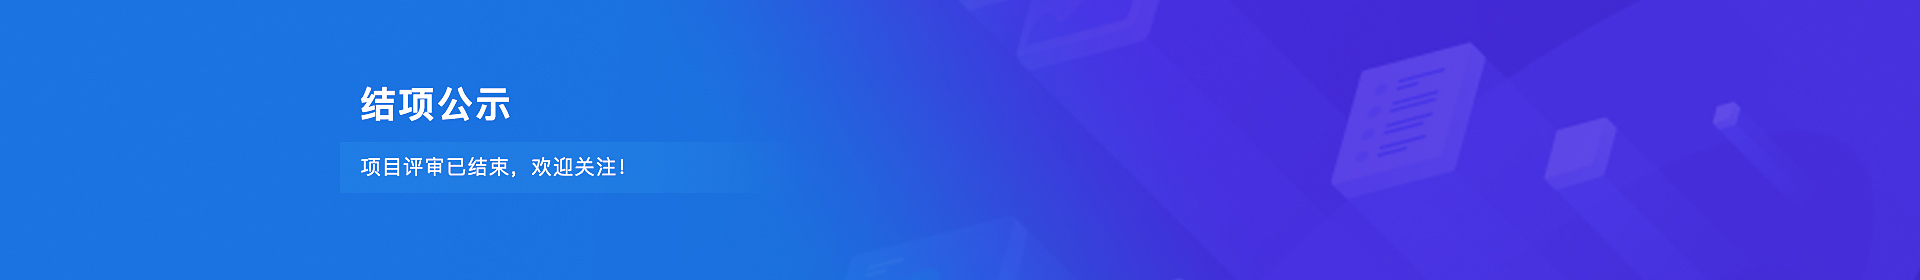
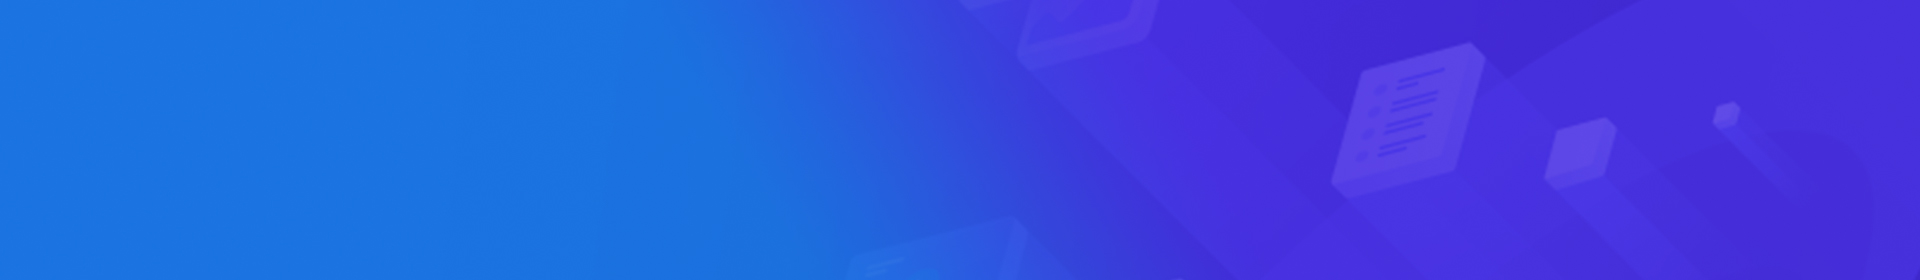
update announcement

Changed region(s): [[0.1875, 0.5429, 0.3438, 0.6286], [0.1875, 0.3143, 0.2812, 0.4286]]

diff --git a/src/pages/announcement/index.less b/src/pages/announcement/index.less
@@ -14,6 +14,28 @@
        width: 100%;
        height: 280px;
        background-image: url(./../../img/stats/banner.jpg);
+       .AnnouncementBannerText{
+        font-size: 36px;
+        font-weight: normal;
+        font-stretch: normal;
+        letter-spacing: 3px;
+        color: #ffffff;
+        padding-top: 86px;
+       }
+       .AnnouncementBannerTexttwo{
+        font-size: 20px;
+        font-weight: normal;
+        font-stretch: normal;
+        letter-spacing: 1px;
+        color: #ffffff;
+        padding:15px 20px;
+        line-height: 40px;
+        margin-left: -20px;
+        font-size: 20px;
+        background-image: url(./../../img/organisation/banner2.png);
+        background-repeat: no-repeat;
+        background-position: left;
+       }
    }
    .AnnouncementContent{
        position: relative;

diff --git a/src/pages/announcement/index.js b/src/pages/announcement/index.js
@@ -164,7 +164,10 @@ export default class Announcement extends React.Component{
         return(
             <div className="Announcement" onClick={()=>{this.closeModal()}}>
                 <div className="AnnouncementBanner">
-                   
+                   <div className="content1200">
+                   <div className="AnnouncementBannerText">结项公示</div>
+                   <div className="AnnouncementBannerTexttwo">结项公示已结束，欢迎关注！</div>
+                   </div>
                 </div>
                 <div className="AnnouncementContent">
                     <div className="AnnouncementWrapper  content1200">

diff --git a/src/components/header/ipad.less b/src/components/header/ipad.less
@@ -264,8 +264,12 @@
             }
         }
     }
+    
 
     .Announcement{
+        .AnnouncementBanner .AnnouncementBannerTexttwo{
+            font-size: 14px;
+        }
         .AnnouncementContent {
             .AnnouncementWrapper {
                 .AWCTableLine{
